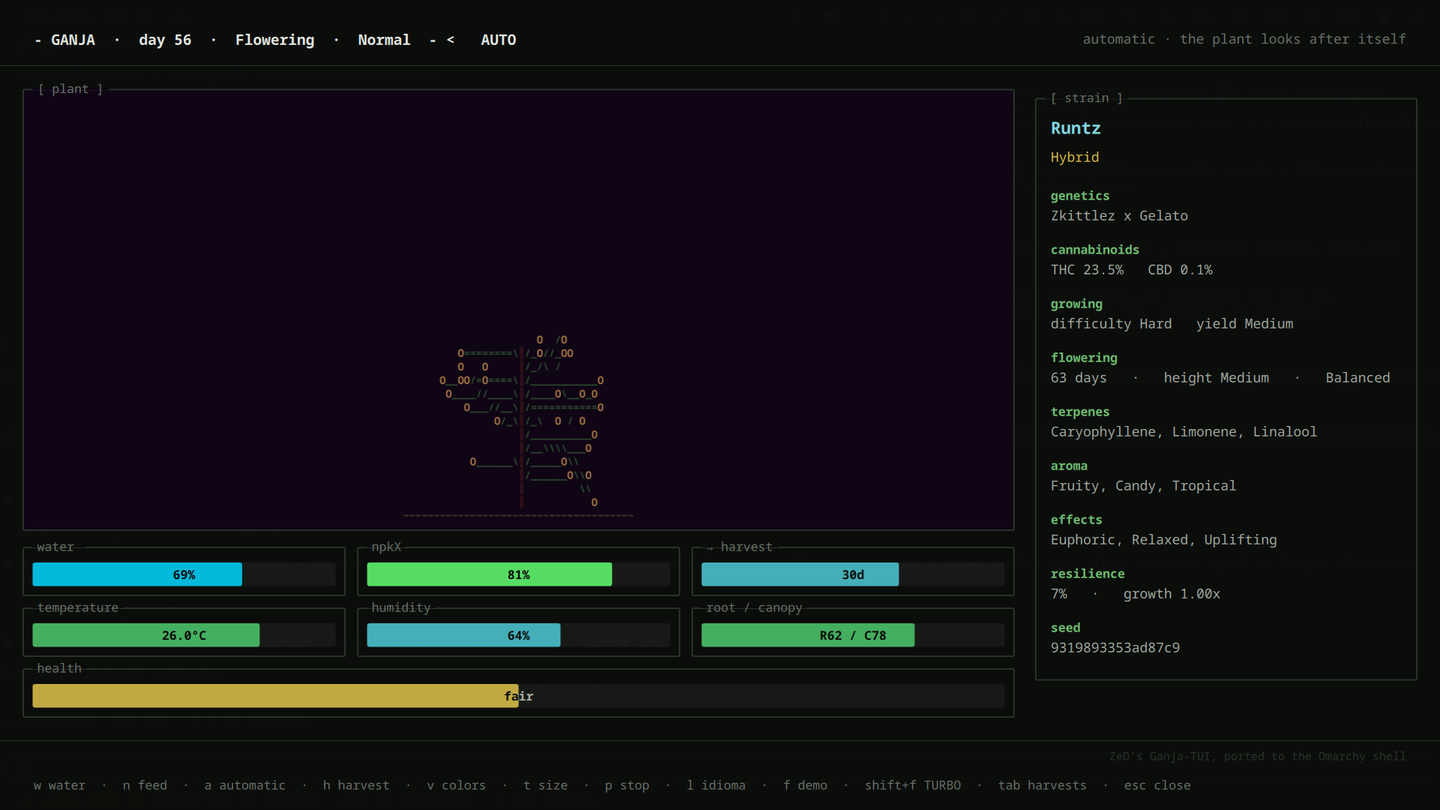
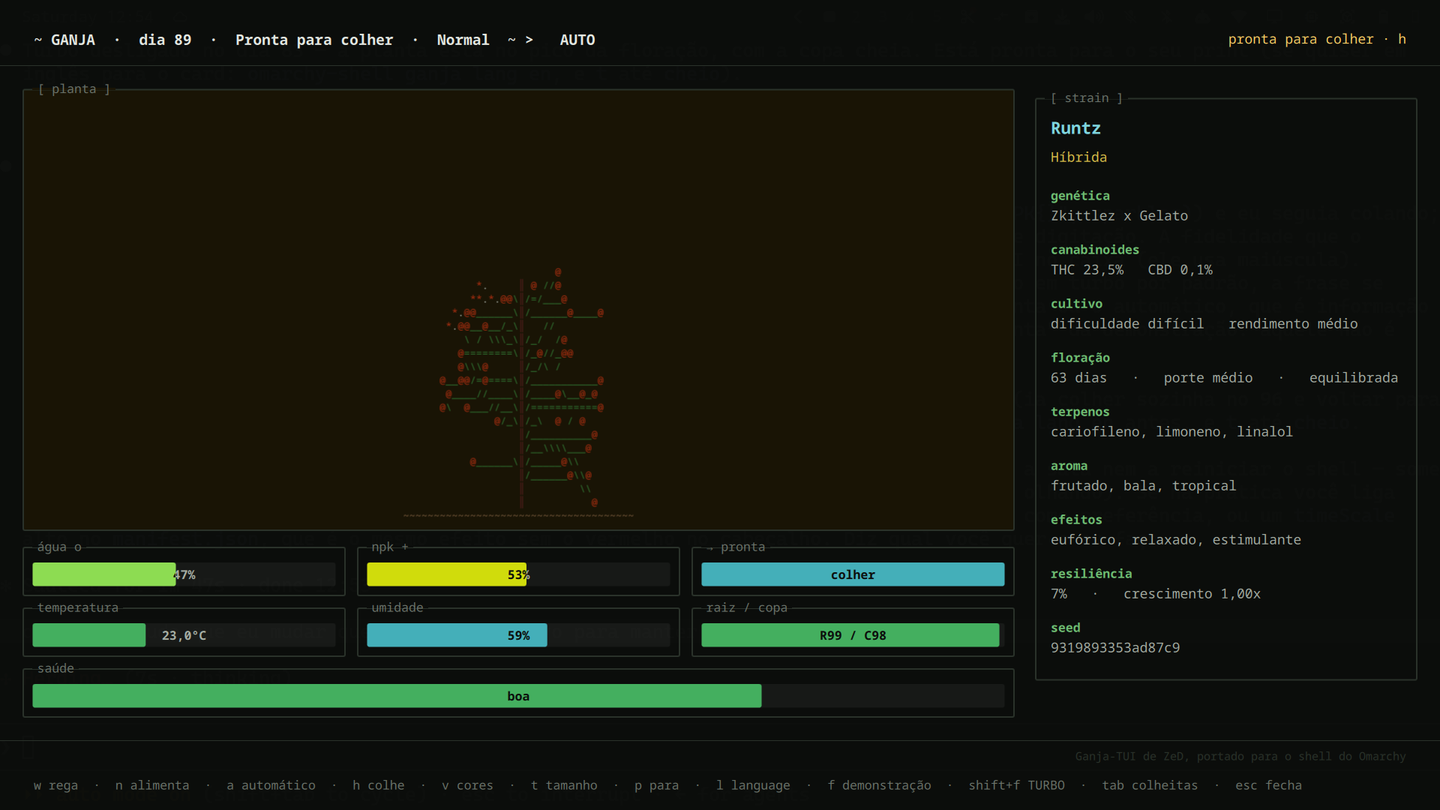
turbo vira preferencia: vai para o save e sobrevive a sala fechada
Regra que passa a valer: tudo o que o usuario muda fica salvo. Idioma, cores,
tamanho de janela, automatico, parada e agora o turbo. Um ajuste que volta ao
padrao sozinho nao e ajuste, e uma pergunta repetida.

Isto revisa a SPEC (secao 4c, nova). O argumento antigo era que um ritmo que
queima um ciclo por minuto e coisa que se faz olhando, e que sobrevivendo a
janela fechada a planta iria embora sem ninguem ver. Estava certo sobre o risco
e errado sobre de quem e a escolha - quem roda em turbo por padrao religava em
toda sessao.

O risco nao foi ignorado, foi trocado de lugar: continua avisado em vermelho no
cabecalho, e passou a estar documentado em vez de impedido. Com a sala fechada o
turbo colhe mais ou menos a cada minuto, e o historico de 100 colheitas roda
inteiro em menos de duas horas. Isso esta nos dois READMEs, numa tabela que diz
o que fica salvo e o que nao fica.

As duas excecoes, com motivo que nao e "e arriscado":

  - a demonstracao (`f`) nao PODE ser salva: ela e definida como "nada disto
    conta" e roda sobre uma copia que o desligar joga fora. Gravar seria gravar
    a intencao de simular um descartavel no proximo boot;
  - a aba de colheitas (`Tab`) nao e ajuste, e onde a pessoa estava olhando. A
    planta e o motivo da janela existir, entao abrir a sala mostra a planta.

`paused` manda sobre `turbo` no adopt: os dois nunca sao verdade ao mesmo tempo,
e um save editado a mao poderia dizer que sao. Quatro verificacoes novas em
[…]

diff --git a/Grow.qml b/Grow.qml
@@ -137,10 +137,19 @@ Singleton {
   // Turbo: a planta DE VERDADE rodando no fator do TUI. Escreve no save, as
   // colheitas contam, e o que acontecer aqui aconteceu.
   //
-  // Nao vai para o save de proposito, e desliga sozinho quando o overlay fecha.
-  // Um ritmo que queima um ciclo por minuto e uma coisa que se faz olhando; se
-  // sobrevivesse ao fechar a janela ou ao reiniciar o shell, a planta iria
-  // embora enquanto ninguem via, e o unico bem dela e o tempo acumulado.
+  // **Vai para o save, e sobrevive a fechar a sala e a reiniciar o shell.**
+  //
+  // Isto foi decidido ao contrario primeiro, e o argumento de la era: um ritmo
+  // que queima um ciclo por minuto e coisa que se faz olhando, e se sobrevivesse
+  // a janela fechada a planta iria embora sem ninguem ver. O argumento estava
+  // certo sobre o risco e errado sobre de quem e a escolha. Quem roda em turbo
+  // por padrao - e e o caso do autor - tinha que religar em toda sessao, e um
+  // ajuste que volta ao padrao sozinho nao e ajuste, e uma pergunta repetida.
+  //
+  // O risco continua existindo e continua avisado: cabecalho vermelho com
+  // "·· TURBO 130000x ··" sempre que esta ligado. E o que ele custa esta
+  // documentado no README: com a sala fechada, uma colheita por minuto, e o
+  // historico (que guarda 100) roda inteiro em uma hora e quarenta.
   property bool turbo: false
 
   function toggleTurbo() {
@@ -149,7 +158,7 @@ Singleton {
     if (!root.turbo && root.paused) root.setPaused(false)
     root.turbo = !root.turbo
     root.lastTickMs = Date.now()   // sem isto o primeiro passo cobre o intervalo inteiro
-    if (!root.turbo) root.save()
+    root.save()                    // nos dois sentidos: e preferencia agora
     return root.turbo
   }
 
@@ -652,6 +661,11 @@ Singleton {
       auto_care: root.autoCare,
       window_mode: root.windowMode,
       language: root.lang,
+      // O turbo e preferencia como qualquer outra. A demonstracao (`fast`) nao
+      // esta aqui e nao pode estar: ela e definida como "nada disto conta" e
+      // roda sobre uma copia que o desligar joga fora - gravar seria gravar a
+      // intencao de simular um descartavel no proximo boot.
+      turbo: root.turbo,
       // `paused` fica de fora do que o TUI entende de proposito: la o relogio e
       // de parede e nao existe "parado". Levar o save para o TUI com a planta
       // parada nao a deixa parada - o TUI vai andar, como sempre andou.
@@ -668,6 +682,9 @@ Singleton {
     root.autoCare = data.auto_care === true
     root.windowMode = root.canonWindowMode(data.window_mode) || "full"
     root.paused = data.paused === true
+    // Parada manda: os dois nunca sao verdade ao mesmo tempo (`setPaused`
+    // desliga o turbo), e um save costurado a mao poderia dizer que sao.
+    root.turbo = data.turbo === true && !root.paused
     // Save sem idioma e save de antes desta opcao existir (ou vindo do TUI):
     // fica o que o locale pediu, que e o default do proprio `lang`.
     if (I18n.known(data.language)) root.lang = data.language

diff --git a/test/state.qml b/test/state.qml
@@ -72,8 +72,21 @@ ShellRoot {
     G.toggleTurbo()
     root.eq("turbo despara", G.paused, false)
     root.eq("turbo ligou", G.turbo, true)
+
+    // O turbo e preferencia: vai para o save e volta dele. Isto foi decidido ao
+    // contrario primeiro - ver o comentario dele no Grow.qml.
+    root.eq("snapshot leva o turbo", G.snapshot().turbo, true)
+    G.turbo = false
+    G.adopt({ current_plant: G.plant, turbo: true }, true)
+    root.eq("adopt traz o turbo", G.turbo, true)
+
     G.setPaused(true)
     root.eq("parar desliga o turbo", G.turbo, false)
+    // Um save que diga as duas coisas nao pode acordar nas duas: parada manda.
+    G.adopt({ current_plant: G.plant, turbo: true, paused: true }, true)
+    root.eq("parada manda sobre o turbo", G.turbo, false)
+    root.eq("e continua parada", G.paused, true)
+    G.setPaused(false)
 
     // ---- retomar anda de novo ----------------------------------------------
     G.setPaused(false)

diff --git a/Ganja.qml b/Ganja.qml
@@ -79,11 +79,14 @@ Item {
       Grow.reread()          // outra sessao pode ter escrito; quem vai olhar pergunta
       Grow.publish()
     } else {
-      // Fechar desliga os dois ritmos rapidos. O turbo queima um ciclo por
-      // minuto: deixa-lo correr atras de uma janela fechada seria perder a
-      // planta sem ver.
+      // Fechar desliga a demonstracao, e so ela. A demonstracao simula sobre
+      // uma copia: atras de uma janela fechada ela gastaria CPU para animar uma
+      // planta que ninguem ve e que sera jogada fora de qualquer forma.
+      //
+      // O turbo fica ligado, porque ele e uma preferencia e nao um modo de
+      // olhar - ver a linha longa no Grow.qml. Ele continua sendo o ritmo do
+      // TUI e continua avisado em vermelho no cabecalho.
       Grow.stopFast()
-      if (Grow.turbo) Grow.toggleTurbo()
     }
   }
 

diff --git a/README.pt-BR.md b/README.pt-BR.md
@@ -152,12 +152,10 @@ mesmo tom lê-se como erro do sistema, não como "o usuário desligou isto". O
 desenho é `md-sleep` e não `md-pause` porque o widget de mídia do próprio shell
 já usa o de pausa para outra coisa.
 
-**Isto vai para o save**, ao contrário do turbo e da demonstração. Os dois
-rápidos se desligam sozinhos porque deixados ligados queimam a planta sem
-ninguém ver; a parada é o oposto — não gasta nada e não perde nada, e quem
-desligou o relógio quer encontrá-lo desligado amanhã. Ligar qualquer um dos dois
-ritmos rápidos retoma primeiro, porque um ritmo de 130000x atrás de um relógio
-parado não teria efeito nenhum e a leitura óbvia disso é que o turbo quebrou.
+**Isto vai para o save**, como todo o resto que você mexe aqui: quem desligou o
+relógio quer encontrá-lo desligado amanhã. Ligar qualquer um dos dois ritmos
+rápidos retoma primeiro, porque um ritmo de 130000x atrás de um relógio parado
+não teria efeito nenhum e a leitura óbvia disso é que o turbo quebrou.
 
 O tempo aqui já é de sessão e não de parede (máquina desligada, planta parada),
 então parar não tem preço nenhum a pagar depois: a planta não acorda com sede
@@ -210,7 +208,11 @@ Nos quatro primeiros a sala é uma camada sobre a tela e clicar fora fecha. No
 lado a lado com o que você está fazendo, em vez de abrir e fechar.
 
 O modo escolhido vai para o save — preferência que volta ao padrão a cada boot
-não é preferência.
+não é preferência. Isso vale para tudo o que você mexe aqui: idioma, cores,
+tamanho de janela, automático, parada e turbo. As duas exceções são a
+demonstração (que não pode, ver abaixo) e a aba de colheitas, que não é ajuste e
+sim onde você estava olhando — a planta é o motivo da janela existir, então abrir
+a sala mostra a planta.
 
 Nos tamanhos menores a sala corta o que é leitura e mantém o que é
 acompanhamento: primeiro sai o painel do strain, depois as linhas de medidor que
@@ -228,6 +230,8 @@ teclas, e as duas são liga/desliga:
 | escreve no save | nunca | sim |
 | as colheitas contam | não | sim |
 | ao desligar | a planta volta onde estava | fica onde chegou |
+| fica salvo | não, e não pode | **sim** |
+| sobrevive a fechar a sala | não | **sim** |
 | cor no cabeçalho | âmbar | vermelho |
 
 A demonstração é o que se grava para mostrar o plugin a alguém: do broto à
@@ -237,10 +241,23 @@ replanta em loop — uma espécie de protetor de tela.
 O turbo é para quando você quer chegar lá. É o TUI inteiro: o mesmo ritmo, as
 mesmas consequências.
 
-Os dois **desligam sozinhos quando a sala fecha**, e nenhum dos dois vai para o
-save. Um ritmo que queima um ciclo por minuto é coisa que se faz olhando; se
-sobrevivesse à janela fechada ou ao reinício do shell, a planta iria embora sem
-ninguém ver — e o tempo acumulado é o único bem que ela tem.
+**A demonstração desliga sozinha quando a sala fecha; o turbo não.**
+
+A demonstração simula sobre uma cópia: atrás de uma janela fechada ela gastaria
+CPU para animar uma planta que ninguém vê e que vai ser jogada fora de qualquer
+forma. E ela não pode ser salva, pela própria definição — gravar "nada disto
+conta" seria gravar a intenção de simular um descartável no próximo boot.
+
+O turbo fica, e vai para o save. Isto foi decidido ao contrário primeiro, com o
+argumento de que um ritmo que queima um ciclo por minuto é coisa que se faz
+olhando. O argumento estava certo sobre o risco e errado sobre de quem é a
+escolha: quem roda em turbo por padrão tinha que religar em toda sessão, e um
+ajuste que volta ao padrão sozinho não é ajuste, é uma pergunta repetida.
+
+O risco continua avisado — cabeçalho vermelho com `·· TURBO 130000x ··` sempre
+que está ligado — e agora está documentado em vez de impedido: com a sala
+fechada, o turbo colhe a planta mais ou menos a cada minuto, então o histórico
+de 100 colheitas roda inteiro em menos de duas horas.
 
 ---
 

diff --git a/README.md b/README.md
@@ -135,12 +135,10 @@ system error rather than as "the user turned this off". The glyph is `md-sleep`
 and not `md-pause` because the shell's own media widget already uses the pause
 glyph to mean something else in the same bar.
 
-**This is persisted**, unlike turbo and demo. Those two turn themselves off,
-because left running they burn through the plant with nobody watching; stopping
-is the opposite — it spends nothing and loses nothing, and whoever switched the
-clock off wants to find it off tomorrow. Turning on either fast mode restarts
-the clock first, because 130000x behind a stopped clock would do nothing at all,
-and "nothing happened" reads as a broken feature.
+**This is persisted**, like every other setting here — see *What the save
+keeps* below. Turning on either fast mode restarts the clock first, because
+130000x behind a stopped clock would do nothing at all, and "nothing happened"
+reads as a broken feature.
 
 The clock here is session time, not wall time (machine off, plant paused), so
 stopping costs nothing later: the plant does not wake up thirsty or dead, it
@@ -170,6 +168,43 @@ Strain names are never translated: Purple Kush is Purple Kush.
 
 Adding a third language is one object in `I18n.js` (108 keys) plus a vocabulary
 table for the strain data (8 terpenes, 30 aromas, 11 effects, 12 enum terms).
+
+---
+
+## What the save keeps
+
+Everything you change, except one thing that cannot be kept and one that should
+not be. A setting that goes back to its default on the next boot is not a
+setting, it is a question asked again.
+
+| you change | kept |
+|---|---|
+| language (`l`) | yes |
+| colors / visual mode (`v`) | yes |
+| window size and kind (`t`) | yes |
+| automatic care (`a`) | yes |
+| **stopped** (`p`, right click) | yes |
+| **turbo** (`Shift+F`) | yes — it survives closing the room and restarting the shell |
+| the plant, the harvests, the hours | yes, that is the point |
+| demo (`f`) | **no**, and it cannot be |
+| the harvests tab (`Tab`) | no, on purpose |
+
+**The demo cannot be kept** because of what it is: it simulates on a *copy* and
+nothing it does counts, so switching it off throws that copy away. Saving it
+would save the intention of simulating a throwaway on the next boot, which is
+not a state anything could restore.
+
+**The harvests tab is not a setting**, it is where you were looking. The plant
+is the reason the window exists, so opening the room shows the plant — always,
+including right after you closed it on the list. If you want it to reopen where
+you left it, say so and it is one line.
+
+Turbo used to be in the "not kept" column, and that was the wrong call: it is
+the rhythm someone chooses, not a mode they watch, and re-enabling it every
+session was a question asked over and over. What it costs is now documented
+rather than prevented — with the room closed, turbo harvests the plant about
+once a minute, so the 100-harvest history turns over in under two hours. The
+red `·· TURBO 130000x ··` in the header says it is on, every time.
 
 ---
 

diff --git a/SPEC.md b/SPEC.md
@@ -171,6 +171,34 @@ Daí o default de uma semana: tempo suficiente para que abrir a barra na
 quarta-feira mostre uma planta diferente da de segunda. Água e nutrientes
 existem para dar consequência ao abandono, não para virar tarefa diária.
 
+### 4c. O turbo é preferência, e fica salvo — decidido em 12/09/2026
+
+Esta seção revisa o que está escrito abaixo: que o turbo não vai para o save e
+se desliga ao fechar a sala.
+
+O argumento de lá — um ritmo que queima um ciclo por minuto é coisa que se faz
+olhando, e se sobrevivesse à janela fechada a planta iria embora sem ninguém ver
+— estava certo sobre o risco e **errado sobre de quem é a escolha**. Quem roda
+em turbo por padrão tinha que religar em toda sessão, e um ajuste que volta ao
+padrão sozinho não é ajuste: é uma pergunta repetida.
+
+Então: `turbo` vai para o save, sobrevive a fechar a sala e a reiniciar o shell,
+e `paused` manda sobre ele (os dois nunca são verdade ao mesmo tempo). O risco
+continua avisado em vermelho no cabeçalho e passou a estar **documentado em vez
+de impedido**: com a sala fechada, o turbo colhe mais ou menos a cada minuto, e
+o histórico de 100 colheitas roda inteiro em menos de duas horas.
+
+A demonstração (`f`) continua fora do save, e não por precaução: ela é definida
+como "nada disto conta" e roda sobre uma cópia que o desligar joga fora. Gravar
+seria gravar a intenção de simular um descartável no próximo boot, que não é
+estado que alguém possa restaurar.
+
+A regra geral que sai daqui, e que vale para o resto: **tudo o que o usuário
+muda fica salvo.** Idioma, cores, tamanho de janela, automático, parada, turbo.
+As exceções precisam de um motivo que não seja "é arriscado" — a demonstração
+tem (não é estado), e a aba de colheitas tem (não é ajuste, é onde a pessoa
+estava olhando, e a planta é o motivo da janela existir).
+
 **E o 130000x não some — vira botão.** Segurar `f` no overlay roda no fator
 original e a planta cresce na sua frente, do broto à colheita, em 60 segundos.
 É o modo demonstração, e é o que se grava para mostrar o plugin aos outros.
